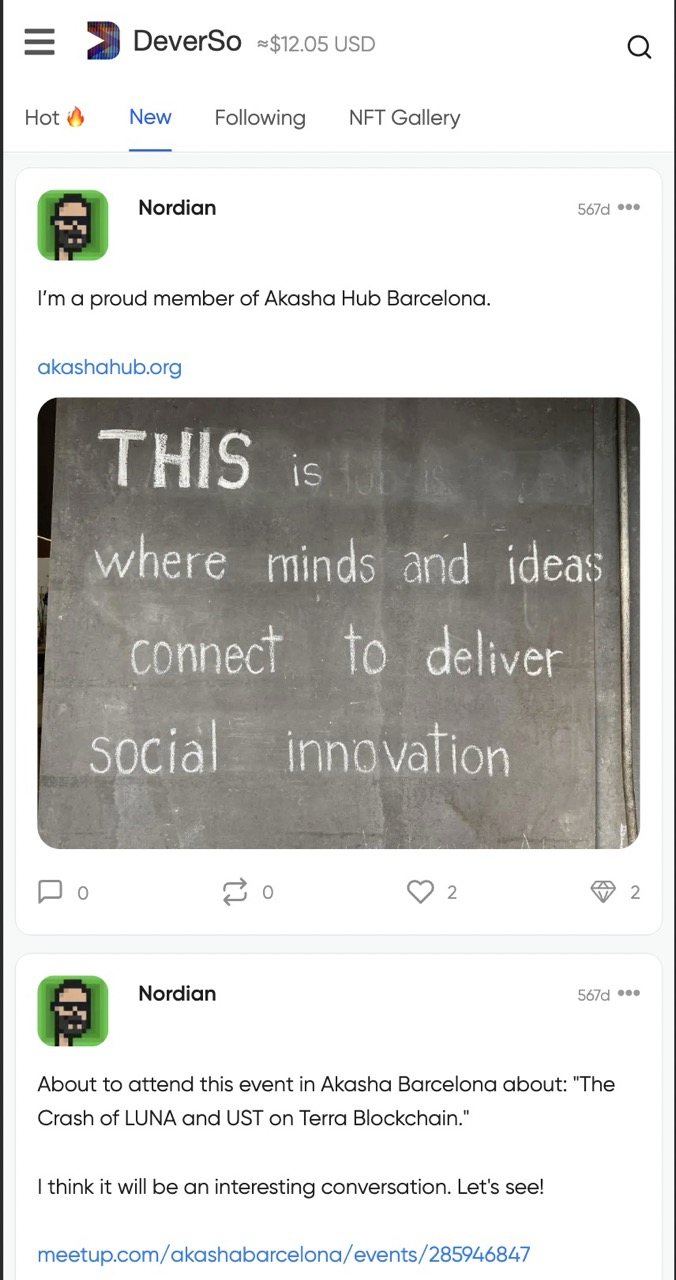
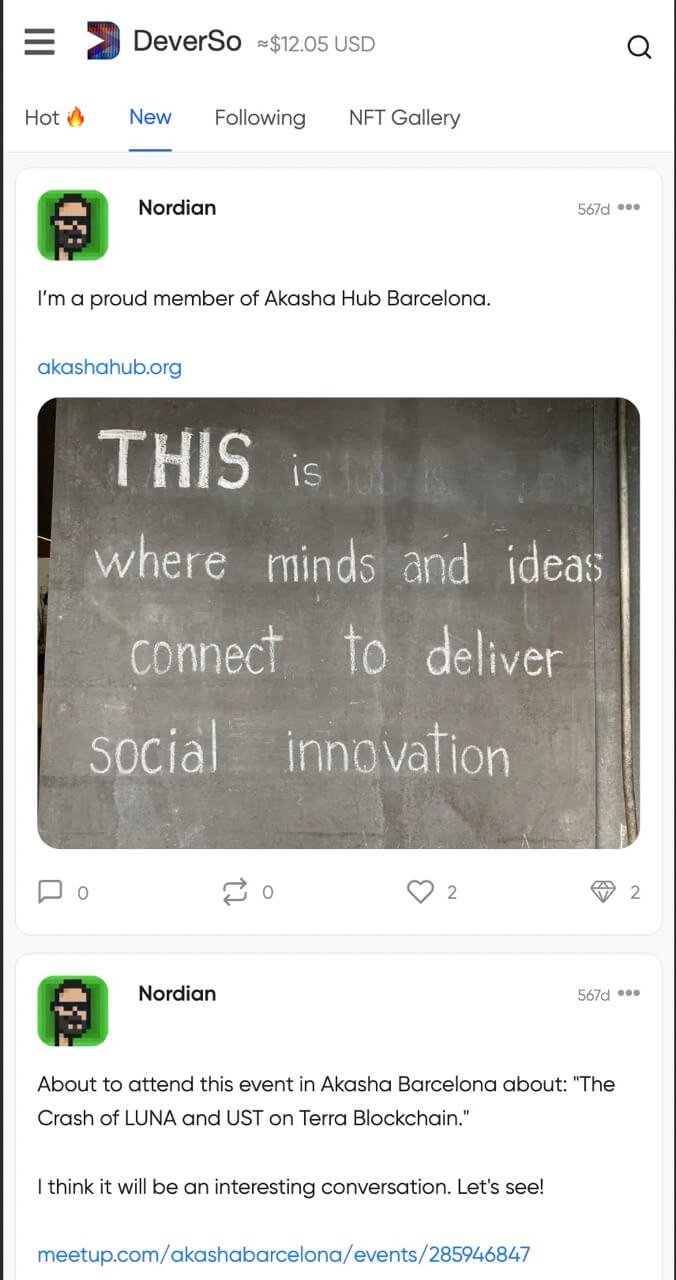
file size optimized

diff --git a/src/utils/projects.ts b/src/utils/projects.ts
@@ -135,7 +135,7 @@ export const features: Project[] = [
         },
         title: 'Anomalie Web App',
         urlTitle: 'anomalie-app',
-        projectScreenShot: '/images/anomalie-app.png',
+        projectScreenShot: '/images/anomalie-app.jpeg',
         repoLink: 'https://github.com/0xNordian/anomalie-app-supabase',
         deployLink: 'https://anomalie.vercel.app/',
         techStack: [
@@ -417,7 +417,7 @@ export const features: Project[] = [
         },
         title: 'Cercle Web',
         urlTitle: 'cercle-app',
-        projectScreenShot: '/images/circl3.png',
+        projectScreenShot: '/images/circl3.jpeg',
         repoLink:
             'https://github.com/0xNordian/IronHack-MidTerm-Rpoject-Circle',
         deployLink: 'https://circl3.netlify.app/',
